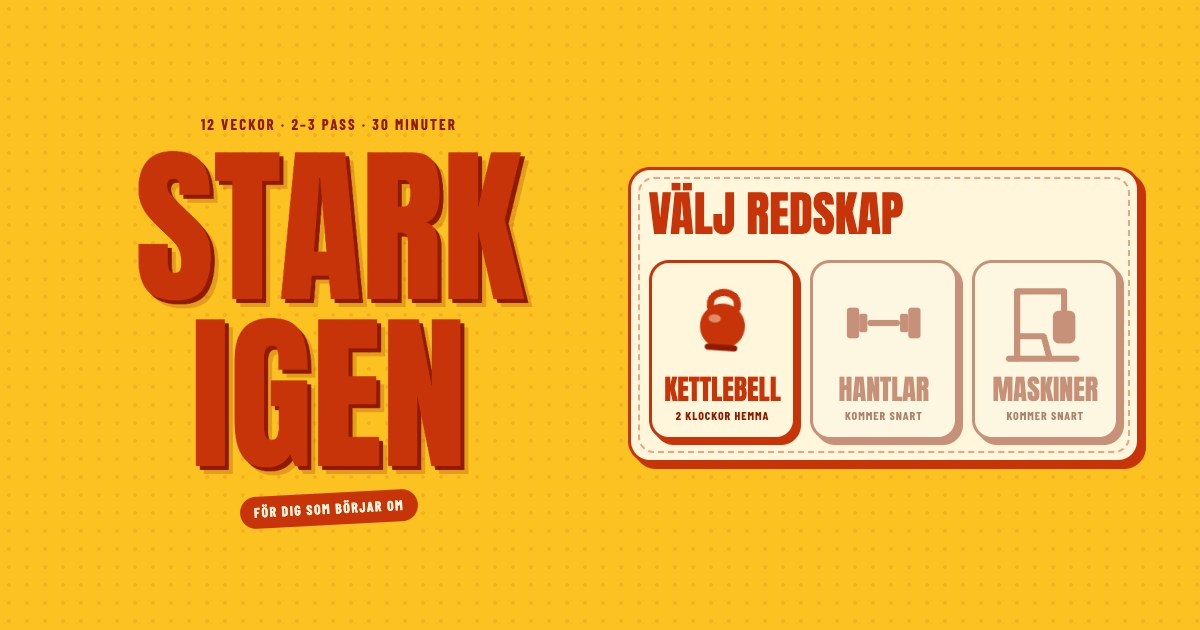
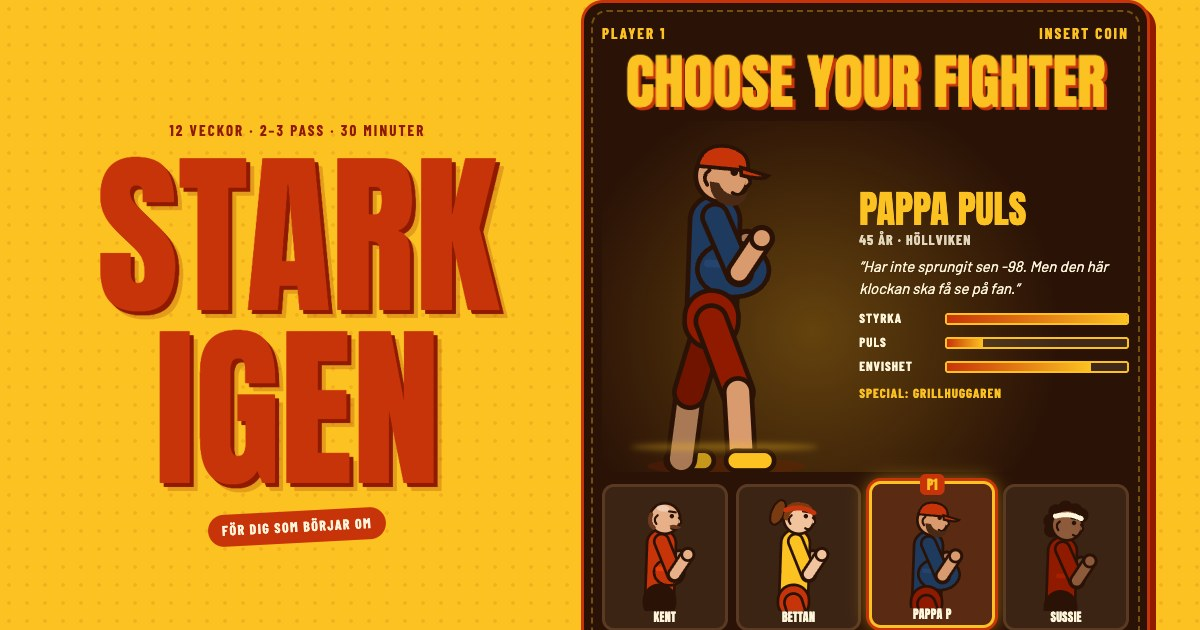
Träning: choose your fighter, tecknade gubbar, gym-läge (wake lock, dock-knapp, PWA/offline)

diff --git a/traning/index.html b/traning/index.html
@@ -16,6 +16,12 @@
 <meta property="og:image:height" content="630">
 <meta name="twitter:card" content="summary_large_image">
 <meta name="theme-color" content="#C8340A">
+<link rel="manifest" href="manifest.webmanifest">
+<link rel="apple-touch-icon" href="icon-192.png">
+<meta name="apple-mobile-web-app-capable" content="yes">
+<meta name="mobile-web-app-capable" content="yes">
+<meta name="apple-mobile-web-app-status-bar-style" content="black-translucent">
+<meta name="apple-mobile-web-app-title" content="Stark igen">
 <link rel="preconnect" href="https://fonts.googleapis.com">
 <link rel="preconnect" href="https://fonts.gstatic.com" crossorigin>
 <link rel="stylesheet" href="https://fonts.googleapis.com/css2?family=Anton&family=Barlow+Condensed:wght@600;700&family=Barlow:wght@400;500;600&display=swap">
@@ -154,6 +160,61 @@ details[open] summary::before{content:"– ";}
 @keyframes fall{to{transform:translateY(110vh) rotate(720deg)}}
 .skip{background:none;border:0;font-family:var(--label);font-weight:700;text-transform:uppercase;letter-spacing:.08em;color:var(--chili);text-decoration:underline;cursor:pointer;font-size:15px;margin-top:14px}
 @media (max-width:560px){.gear{gap:9px}.gear svg{height:70px}.bc-bar .hide-m{display:none}}
+
+button,.btn{touch-action:manipulation;user-select:none;-webkit-user-select:none}
+/* choose your fighter */
+.fsel{background:#2A1206;border-color:var(--chili);color:var(--cream);box-shadow:6px 6px 0 var(--ox)}
+.fsel::before{border-color:rgba(252,194,34,.35)}
+.fsel .eyebrow{color:var(--buttercup);display:flex;justify-content:space-between}
+.fsel .eyebrow .blink{animation:blink 1s steps(2) infinite}
+@keyframes blink{50%{opacity:0}}
+.cyf{color:var(--buttercup);text-shadow:3px 3px 0 var(--chili);font-size:clamp(34px,9vw,58px);text-align:center;margin:2px 0 10px;animation:cyf 2.4s ease-in-out infinite}
+@keyframes cyf{0%,100%{transform:scale(1)}50%{transform:scale(1.04)}}
+.fstage{display:grid;grid-template-columns:1fr 1.1fr;gap:12px;align-items:center;background:radial-gradient(circle at 40% 60%,rgba(252,194,34,.28),transparent 65%);border-radius:16px}
+#fbig .fig{max-height:none;height:auto;width:100%}
+#fbig{position:relative}
+#fbig::after{content:"";position:absolute;left:12%;right:12%;bottom:6%;height:8px;border-radius:50%;background:rgba(252,194,34,.35);filter:blur(3px)}
+.finfo h3{color:var(--buttercup);font-size:clamp(26px,6.5vw,38px);margin:0}
+.finfo .lbl{color:var(--cream);opacity:.85;margin:2px 0 6px}
+.finfo .motto{font-size:15px;font-style:italic;margin:0 0 10px;color:var(--cream)}
+.stat{display:grid;grid-template-columns:78px 1fr;gap:8px;align-items:center;margin:5px 0;font-family:var(--label);font-weight:700;letter-spacing:.08em;font-size:13px;text-transform:uppercase}
+.stat .bar{height:12px;border:2px solid var(--buttercup);border-radius:3px;overflow:hidden;background:rgba(255,246,220,.1)}
+.stat .bar i{display:block;height:100%;background:linear-gradient(90deg,var(--chili),var(--buttercup));width:0;transition:width .6s var(--pop)}
+.fmove{font-family:var(--label);font-weight:700;text-transform:uppercase;letter-spacing:.08em;font-size:13px;color:var(--buttercup);margin-top:8px}
+.fgrid{display:grid;grid-template-columns:repeat(4,1fr);gap:8px;margin-top:12px}
+.fgrid button{appearance:none;background:#3b2414;border:3px solid #5a3a22;border-radius:12px;padding:2px 2px 4px;cursor:pointer;position:relative;transition:transform .15s var(--pop),border-color .2s}
+.fgrid button .fig{max-height:none;width:100%;height:auto;display:block}
+.fgrid button span{display:block;font-family:var(--display);color:var(--cream);font-size:12px;line-height:1.05;text-transform:uppercase;letter-spacing:.02em}
+.fgrid button.on{border-color:var(--buttercup);background:#5a2a12;transform:translateY(-3px);box-shadow:0 0 0 3px var(--chili),0 0 18px rgba(252,194,34,.6)}
+.fgrid button.on::after{content:"P1";position:absolute;top:-10px;left:50%;transform:translateX(-50%);background:var(--chili);color:var(--buttercup);font-family:var(--display);font-size:13px;padding:1px 7px;border-radius:6px;animation:blink 1s steps(2) infinite}
+.fgrid button:active{transform:scale(.94)}
+.flash{position:fixed;inset:0;background:#fff;pointer-events:none;z-index:90;opacity:0}
+.flash.go{animation:flash .35s ease-out}
+@keyframes flash{0%{opacity:.7}100%{opacity:0}}
+.ko{position:absolute;top:6px;left:0;right:0;text-align:center;font-family:var(--display);font-size:30px;color:var(--buttercup);text-shadow:3px 3px 0 var(--chili);opacity:0;pointer-events:none;text-transform:uppercase}
+.ko.go{animation:ko .9s var(--pop)}
+@keyframes ko{0%{opacity:0;transform:scale(2.5)}30%{opacity:1;transform:scale(1)}80%{opacity:1}100%{opacity:0;transform:translateY(-10px)}}
+/* gym/mobil */
+.dock{position:fixed;left:0;right:0;bottom:0;z-index:40;padding:14px 16px calc(14px + env(safe-area-inset-bottom));background:linear-gradient(rgba(252,194,34,0),var(--buttercup) 32%)}
+.dock .btn{display:block;width:100%;max-width:728px;margin:0 auto;font-size:34px;padding:20px}
+#ss-body{padding-bottom:120px}
+.sshead{display:flex;justify-content:space-between;align-items:center;gap:8px}
+.sshead button{background:none;border:0;font-family:var(--label);font-weight:700;text-transform:uppercase;letter-spacing:.08em;color:var(--chili);font-size:16px;cursor:pointer;padding:8px 2px;min-height:44px}
+.wake{font-family:var(--label);font-weight:700;text-transform:uppercase;letter-spacing:.08em;font-size:12px;opacity:.75;text-align:center;margin:-6px 0 8px}
+.tipsd summary{margin-top:10px}
+.install{display:none}
+.install.on{display:block}
+.duo{display:grid;grid-template-columns:1fr 150px;gap:10px;align-items:center}
+@media (max-width:560px){
+  main{padding:56px 12px 40px}
+  .fstage{grid-template-columns:1fr 1.15fr}
+  .stat{grid-template-columns:62px 1fr;font-size:11px}
+  .finfo .motto{font-size:13px}
+  .exname{margin-top:12px}
+  .fig{max-height:36vh}
+  .card{padding:16px 14px}
+}
+@media (display-mode:standalone){.bc-bar{padding-top:calc(8px + env(safe-area-inset-top))}main{padding-top:calc(62px + env(safe-area-inset-top))}}
 @media (prefers-reduced-motion:reduce){*{animation:none!important;transition:none!important}}
 </style>
 </head>
@@ -167,6 +228,17 @@ details[open] summary::before{content:"– ";}
     <p class="eyebrow">12 veckor · 2–3 pass · 30 minuter</p>
     <h1>STARK<br>IGEN</h1>
     <span class="badge">För dig som börjar om</span>
+  </div>
+  <div class="card fsel">
+    <p class="eyebrow"><span>Player 1</span><span class="blink">Insert coin</span></p>
+    <h2 class="cyf">Choose your fighter</h2>
+    <div class="fstage"><div id="fbig"><div class="ko" id="fko">Ready!</div></div>
+      <div class="finfo"><h3 id="fname"></h3><p class="lbl" id="fmeta"></p><p class="motto" id="fmotto"></p>
+        <div class="stat"><span>Styrka</span><span class="bar"><i id="fs0"></i></span></div>
+        <div class="stat"><span>Puls</span><span class="bar"><i id="fs1"></i></span></div>
+        <div class="stat"><span>Envishet</span><span class="bar"><i id="fs2"></i></span></div>
+        <div class="fmove" id="fmove"></div></div></div>
+    <div class="fgrid" id="fgrid"></div>
   </div>
   <div class="card">
     <h2>Välj redskap</h2>
@@ -235,12 +307,16 @@ details[open] summary::before{content:"– ";}
     </ul>
     <div class="row" style="margin-top:6px"><button class="btn ghost" id="edit-prof">Ändra vikter / pass</button></div>
   </div>
+  <div class="card install" id="install"><h3>Ta med till gymmet</h3>
+    <p class="note" id="inst-txt" style="margin:0 0 10px">Lägg sidan på hemskärmen så öppnas den som en app – och funkar även utan täckning.</p>
+    <button class="btn yellow" id="inst-btn" style="display:none">Installera</button></div>
 </section>
 
 <!-- ============ PASS ============ -->
 <section class="screen" id="s-sess">
-  <div class="row" style="justify-content:space-between"><span class="lbl" id="ss-title">Pass A · Vecka 1</span><button class="skip" style="margin:0" id="ss-quit">Avbryt</button></div>
+  <div class="sshead"><button id="ss-backstep">‹ Bakåt</button><span class="lbl" id="ss-title" style="text-align:center">Pass A</span><button id="ss-quit">Avbryt</button></div>
   <div class="prog"><i id="ss-prog"></i></div>
+  <div class="wake" id="wake"></div>
   <div id="ss-body"></div>
 </section>
 
@@ -248,7 +324,7 @@ details[open] summary::before{content:"– ";}
 <section class="screen" id="s-done">
   <div class="done-hero">
     <p class="eyebrow" id="d-eyebrow">Pass klart</p>
-    <div class="bigstamp" id="d-stamp">Klart!</div>
+    <div class="duo"><div id="d-fig"></div><div class="bigstamp" id="d-stamp" style="width:150px;height:150px;font-size:28px">Klart!</div></div>
     <h2 id="d-head">Snyggt jobbat</h2>
     <p class="note" id="d-msg"></p>
   </div>
@@ -276,6 +352,7 @@ details[open] summary::before{content:"– ";}
 </div></div>
 <div class="toast" id="toast"></div>
 <div class="conf" id="conf"></div>
+<div class="flash" id="flash"></div>
 
 <svg width="0" height="0" style="position:absolute">
   <defs>
@@ -373,52 +450,109 @@ function exPlan(id, sets, reps, mode) {
 
 // ---------------- figur-renderare ----------------
 const NS = 'http://www.w3.org/2000/svg';
-function figure(ex) {
-  const svg = document.createElementNS(NS, 'svg'); svg.setAttribute('viewBox', '0 0 240 216'); svg.classList.add('fig');
-  const mk = (tag, at) => { const n = document.createElementNS(NS, tag); for (const k in at) n.setAttribute(k, at[k]); svg.appendChild(n); return n; };
-  mk('rect', {x:0, y:202, width:240, height:14, fill:'#FCC222'}); mk('line', {x1:0, y1:202, x2:240, y2:202, stroke:'#C8340A', 'stroke-width':3});
-  if (ex.prop === 'mat') mk('rect', {x:22, y:198, width:186, height:5, rx:2.5, fill:'#8F1A00', opacity:.35});
-  if (ex.prop === 'boxlow') { mk('rect', {x:46, y:160, width:44, height:42, rx:4, fill:'#FCC222', stroke:'#C8340A', 'stroke-width':3}); }
-  if (ex.prop === 'bench') { mk('rect', {x:146, y:140, width:74, height:9, rx:3, fill:'#C8340A'}); mk('line', {x1:156, y1:149, x2:156, y2:202, stroke:'#C8340A', 'stroke-width':5}); mk('line', {x1:210, y1:149, x2:210, y2:202, stroke:'#C8340A', 'stroke-width':5}); }
-  const back = {stroke:'#8F1A00', 'stroke-width':10, 'stroke-linecap':'round', 'stroke-linejoin':'round', fill:'none', opacity:.45};
-  const front = {stroke:'#C8340A', 'stroke-width':12, 'stroke-linecap':'round', 'stroke-linejoin':'round', fill:'none'};
-  const shadow = mk('ellipse', {cx:110, cy:203, rx:40, ry:4, fill:'#8F1A00', opacity:.18});
-  const leg2 = mk('polyline', back), arm2 = mk('polyline', back);
-  const kbs = [];
-  const kbg = (op) => { const g = document.createElementNS(NS, 'g'); g.innerHTML = `<g transform="translate(-12,-15) scale(.43)" opacity="${op}"><use href="#kb" width="56" height="70"/></g>`; svg.appendChild(g); return g; };
-  if (ex.kb2) kbs.push(kbg(.55));
-  const torso = mk('polyline', {...front, 'stroke-width':16}), leg = mk('polyline', front), arm = mk('polyline', front);
-  const head = mk('circle', {r:13, fill:'#C8340A'});
-  if (ex.bell) kbs.unshift(kbg(1));
+// ---------------- fighters ----------------
+const FIGHTERS = [
+  {id:'kent', namn:'Kettlebell-Kent', kort:'Kent', alder:44, ort:'Torekov', motto:'Ryggen är rak. Det är mer än man kan säga om grannen.', skin:'#E8B088', shirt:'#C8340A', pants:'#2A1206', shorts:true, shoe:'#FFF6DC', hair:'bald', hc:'#6B3A1E', belly:6, st:[4,2,5], move:'Rak rygg-stöten'},
+  {id:'bettan', namn:'Bettan Bell', kort:'Bettan', alder:42, ort:'Båstad', motto:'Jag svettas inte. Jag glittrar. Mycket.', skin:'#F2C49E', shirt:'#FCC222', pants:'#C8340A', shoe:'#2A1206', hair:'tofs', hc:'#7A3A12', band:'#C8340A', belly:0, st:[3,5,4], move:'Tofs-snurren'},
+  {id:'pappa', namn:'Pappa Puls', kort:'Pappa P', alder:45, ort:'Höllviken', motto:'Har inte sprungit sen -98. Men den här klockan ska få se på fan.', skin:'#D99B6E', shirt:'#1F3A5F', pants:'#8F1A00', shorts:true, shoe:'#FCC222', hair:'keps', hc:'#4A2A14', cap:'#C8340A', belly:11, st:[5,1,4], move:'Grillhuggaren'},
+  {id:'sussie', namn:'Svettis-Sussie', kort:'Sussie', alder:41, ort:'Malmö', motto:'Uppvärmning är för folk som tänker sluta.', skin:'#8D5A3B', shirt:'#8F1A00', pants:'#2A1206', shoe:'#FFF6DC', hair:'lockar', hc:'#2A1206', band:'#FFF6DC', belly:0, st:[4,4,5], move:'Svettstormen'},
+];
+const fighterById = id => FIGHTERS.find(f => f.id === id) || FIGHTERS[0];
+const ANIM = {
+  guard:{poses:[P(ST,{hip:[110,122], kn:[122,161], an:[126,199], kn2:[100,161], an2:[94,199], el:[124,96], ha:[136,78], el2:[116,96], ha2:[128,80], head:[115,45], kbo:null}),
+                P(ST,{hip:[110,128], sh:[112,73], head:[116,51], kn:[125,165], an:[126,199], kn2:[98,165], an2:[94,199], el:[125,102], ha:[137,84], el2:[117,102], ha2:[129,86], kbo:null})], dur:420},
+  flex:{poses:[P(ST,{el:[136,64], ha:[134,42], el2:[90,64], ha2:[92,42], kn:[120,161], an:[124,199], kn2:[100,161], an2:[96,199], kbo:null}), P(ST,{hip:[110,124], sh:[112,70], head:[114,48], el:[138,66], ha:[130,46], el2:[88,66], ha2:[96,46], kn:[122,163], an:[124,199], kn2:[98,163], an2:[96,199], kbo:null})], dur:380},
+};
+const shade = (hex, k) => { const n = parseInt(hex.slice(1), 16); const c = [n >> 16, n >> 8 & 255, n & 255].map(v => Math.round(v * k)); return '#' + c.map(v => v.toString(16).padStart(2, '0')).join(''); };
+function headSVG(f) {
+  const s = f.skin, o = '#2A1206';
+  let back = '', front = '';
+  if (f.hair === 'bald') { front = `<ellipse cx="-3" cy="-9" rx="6" ry="3" fill="#fff" opacity=".35"/><path d="M5 6 Q10 3 16 6 Q12 9 9 8 Q7 9 5 6Z" fill="${f.hc}"/><path d="M-13 -2 Q-15 6 -9 10" stroke="${f.hc}" stroke-width="4" fill="none" stroke-linecap="round"/>`; }
+  if (f.hair === 'tofs') { back = `<g class="tofs"><ellipse cx="-18" cy="-2" rx="6" ry="12" fill="${f.hc}" stroke="${o}" stroke-width="2" transform="rotate(25 -14 -8)"/></g>`;
+    front = `<path d="M-14 2 Q-16 -16 2 -15 Q12 -14 13 -6 Q2 -10 -6 -6 Q-10 -2 -10 4Z" fill="${f.hc}"/><path d="M-13 -6 Q0 -13 13 -7" stroke="${f.band}" stroke-width="4.5" fill="none" stroke-linecap="round"/>`; }
+  if (f.hair === 'keps') { front = `<path d="M-14 -3 Q-13 -16 1 -16 Q13 -15 13 -5Z" fill="${f.cap}" stroke="${o}" stroke-width="2"/><path d="M9 -6 L24 -4 Q22 -1 10 -2Z" fill="${f.cap}" stroke="${o}" stroke-width="2"/>
+      <path d="M-6 4 Q-4 15 7 15 Q14 14 15 6 Q11 10 7 9 Q2 9 -1 4Z" fill="${f.hc}"/>`; }
+  if (f.hair === 'lockar') { back = [[-12,-10],[-4,-15],[5,-14],[-15,-1],[-13,7],[11,-11]].map(([x,y]) => `<circle cx="${x}" cy="${y}" r="7" fill="${f.hc}"/>`).join('');
+    front = `<path d="M-12 -6 Q0 -12 12 -8" stroke="${f.band}" stroke-width="4.5" fill="none" stroke-linecap="round"/>`; }
+  return `${back}<circle r="14" fill="${s}" stroke="${o}" stroke-width="2.5"/>
+    <path d="M12 -3 Q18 1 13 4" fill="${s}" stroke="${o}" stroke-width="2"/>
+    <circle cx="6" cy="-3" r="2" fill="${o}"/><path d="M3 -7 L9 -7" stroke="${o}" stroke-width="2" stroke-linecap="round"/>
+    <path d="M7 8 Q10 9.5 12 7.5" stroke="${o}" stroke-width="2" fill="none" stroke-linecap="round"/>
+    <path d="M-7 -2 Q-11 2 -7 6" fill="none" stroke="${o}" stroke-width="2" stroke-linecap="round"/>${front}`;
+}
+// Ritar en fighter som gör en övning. ex: {poses, dur, cycle, walk, bell, kb2, prop}. Returnerar svg; svg.setAnim(ex) byter rörelse.
+function figure(ex, f = fighterById(localStorage.getItem('bc_traning_fighter')), opts = {}) {
+  const svg = document.createElementNS(NS, 'svg'); svg.setAttribute('viewBox', opts.vb || '0 0 240 216'); svg.classList.add('fig');
+  const mk = (tag, at, par = svg) => { const n = document.createElementNS(NS, tag); for (const k in at) n.setAttribute(k, at[k]); par.appendChild(n); return n; };
+  const OX = '#2A1206';
+  const props = mk('g', {});
+  if (!opts.noGround) { mk('rect', {x:0, y:202, width:240, height:14, fill:'#FCC222'}, props); mk('line', {x1:0, y1:202, x2:240, y2:202, stroke:'#C8340A', 'stroke-width':3}, props); }
+  const shadow = mk('ellipse', {cx:110, cy:203, rx:42, ry:4.5, fill:'#8F1A00', opacity:.2});
+  const seg = (col, w) => { const g = mk('g', {}); const a = mk('polyline', {stroke:OX, 'stroke-width':w + 5, 'stroke-linecap':'round', 'stroke-linejoin':'round', fill:'none'}, g);
+    const b = mk('polyline', {stroke:col, 'stroke-width':w, 'stroke-linecap':'round', 'stroke-linejoin':'round', fill:'none'}, g); return {set(p) { a.setAttribute('points', p); b.setAttribute('points', p); }, a, b}; };
+  const dk = .78;
+  const kbg = (op) => { const g = mk('g', {}); g.innerHTML = `<g transform="translate(-12,-15) scale(.43)" opacity="${op}"><use href="#kb" width="56" height="70"/></g>`; return g; };
+  // bortre sida
+  const shoe2 = seg(shade(f.shoe, dk), 8), shin2 = seg(shade(f.shorts ? f.skin : f.pants, dk), 12), thigh2 = seg(shade(f.pants, dk), 14);
+  const kbBack = kbg(1);
+  const fore2 = seg(shade(f.skin, dk), 9), up2 = seg(shade(f.shirt, dk), 11);
+  const hand2 = mk('circle', {r:5.5, fill:shade(f.skin, dk), stroke:OX, 'stroke-width':2.5});
+  // kropp
+  const torso = seg(f.shirt, 24);
+  const belly = mk('ellipse', {rx:0, ry:0, fill:f.shirt, stroke:OX, 'stroke-width':2.5});
+  const stripe = mk('polyline', {stroke:shade(f.shirt, 1.25), 'stroke-width':4, fill:'none', 'stroke-linecap':'round', opacity:.7});
+  const shorts = seg(f.pants, 26);
+  const thigh = seg(f.pants, 14), shin = seg(f.shorts ? f.skin : f.pants, 12), shoe = seg(f.shoe, 8);
+  const headG = mk('g', {}); headG.innerHTML = headSVG(f);
+  const tofs = headG.querySelector('.tofs');
+  const kbFront = kbg(1);
+  const up = seg(f.shirt, 11), fore = seg(f.skin, 9);
+  const hand = mk('circle', {r:5.5, fill:f.skin, stroke:OX, 'stroke-width':2.5});
   const lerp = (a, b, t) => a + (b - a) * t;
+  const pts = (...p) => p.map(q => q[0].toFixed(1) + ',' + q[1].toFixed(1)).join(' ');
+  let cur, t0;
+  svg.setAnim = (e) => {
+    cur = e; t0 = performance.now(); props.querySelectorAll('.prop').forEach(n => n.remove());
+    if (e.prop === 'mat') mk('rect', {class:'prop', x:22, y:198, width:186, height:5, rx:2.5, fill:'#8F1A00', opacity:.35}, props);
+    if (e.prop === 'boxlow') mk('rect', {class:'prop', x:46, y:160, width:44, height:42, rx:4, fill:'#FCC222', stroke:'#C8340A', 'stroke-width':3}, props);
+    if (e.prop === 'bench') { mk('rect', {class:'prop', x:146, y:140, width:74, height:9, rx:3, fill:'#C8340A'}, props); mk('line', {class:'prop', x1:156, y1:149, x2:156, y2:202, stroke:'#C8340A', 'stroke-width':5}, props); mk('line', {class:'prop', x1:210, y1:149, x2:210, y2:202, stroke:'#C8340A', 'stroke-width':5}, props); }
+    kbFront.style.display = e.bell ? '' : 'none'; kbBack.style.display = e.kb2 ? '' : 'none';
+  };
+  svg.setAnim(ex);
   const L = (A, B, k, t) => { const a = A[k] ?? A[k.replace('2','')], b = B[k] ?? B[k.replace('2','')]; return [lerp(a[0], b[0], t), lerp(a[1], b[1], t)]; };
-  const pts = (...p) => p.map(q => q.join(',')).join(' ');
-  let t0 = performance.now(), alive = true;
   function frame(now) {
-    if (!svg.isConnected && now - t0 > 500) return;   // figuren har bytts ut: sluta animera
-    const n = ex.poses.length, cyc = ex.cycle;
-    let u = ((now - t0) / ex.dur);
+    if (!svg.isConnected && now - t0 > 800) return;
+    const e = cur, n = e.poses.length, u = (now - t0) / e.dur;
     let i, j, t;
-    if (cyc) { const k = u % n; i = Math.floor(k); j = (i + 1) % n; t = k - i; }
-    else { const k = u % 2; const fw = k < 1; t = fw ? k : 2 - k; i = 0; j = 1; }
+    if (e.cycle) { const k = u % n; i = Math.floor(k); j = (i + 1) % n; t = k - i; }
+    else { const k = u % 2; t = k < 1 ? k : 2 - k; i = 0; j = 1; }
     t = .5 - Math.cos(Math.PI * t) / 2;
-    const A = ex.poses[i], B = ex.poses[j];
-    const g = k => L(A, B, k, t);
-    const hip = g('hip'), sh = g('sh'), kn = g('kn'), an = g('an'), kn2 = g('kn2'), an2 = g('an2'), el = g('el'), ha = g('ha'), el2 = g('el2'), ha2 = g('ha2'), hd = g('head');
-    const bob = ex.walk ? Math.abs(Math.sin(Math.PI * u)) * -2 : 0;
-    const B2 = p => [p[0], p[1] + bob];
-    const toe = a => [a[0] + 13, a[1]];
-    leg2.setAttribute('points', pts(B2(hip), kn2, an2, toe(an2)));
-    arm2.setAttribute('points', pts(B2(sh), B2(el2), B2(ha2)));
-    torso.setAttribute('points', pts(B2(hip), B2(sh)));
-    leg.setAttribute('points', pts(B2(hip), kn, an, toe(an)));
-    arm.setAttribute('points', pts(B2(sh), B2(el), B2(ha)));
-    head.setAttribute('cx', hd[0]); head.setAttribute('cy', hd[1] + bob);
+    const A = e.poses[i], B = e.poses[j], g = k => L(A, B, k, t);
+    const bob = e.walk ? Math.abs(Math.sin(Math.PI * u)) * -2.5 : 0, Bb = p => [p[0], p[1] + bob];
+    const hip = Bb(g('hip')), sh = Bb(g('sh')), kn = g('kn'), an = g('an'), kn2 = g('kn2'), an2 = g('an2'), el = Bb(g('el')), ha = Bb(g('ha')), el2 = Bb(g('el2')), ha2 = Bb(g('ha2')), hd = Bb(g('head'));
+    const toe = a => [a[0] + 12, a[1] + 1], heel = a => [a[0] - 3, a[1] + 1];
+    thigh2.set(pts(hip, kn2)); shin2.set(pts(kn2, an2)); shoe2.set(pts(heel(an2), toe(an2)));
+    up2.set(pts(sh, el2)); fore2.set(pts(el2, ha2)); hand2.setAttribute('cx', ha2[0]); hand2.setAttribute('cy', ha2[1]);
+    // bål: lite kortare upptill så halsen syns
+    const v = [sh[0] - hip[0], sh[1] - hip[1]], len = Math.hypot(...v), u1 = [v[0] / len, v[1] / len], nrm = [-u1[1], u1[0]];
+    const shT = [hip[0] + u1[0] * (len - 2), hip[1] + u1[1] * (len - 2)];
+    torso.set(pts(hip, shT));
+    const bm = [hip[0] + v[0] * .5 + nrm[0] * (5 + f.belly * .5), hip[1] + v[1] * .5 + nrm[1] * (5 + f.belly * .5)];
+    if (f.belly) { belly.setAttribute('cx', bm[0]); belly.setAttribute('cy', bm[1]); belly.setAttribute('rx', 8 + f.belly); belly.setAttribute('ry', 9 + f.belly * .5);
+      belly.setAttribute('transform', `rotate(${Math.atan2(u1[1], u1[0]) * 180 / Math.PI + 90} ${bm[0]} ${bm[1]})`); }
+    stripe.setAttribute('points', pts([hip[0] + v[0] * .55 + nrm[0] * -3, hip[1] + v[1] * .55 + nrm[1] * -3], [hip[0] + v[0] * .55 + nrm[0] * 9, hip[1] + v[1] * .55 + nrm[1] * 9]));
+    shorts.set(pts([hip[0] + u1[0] * 2, hip[1] + u1[1] * 2], hip));
+    thigh.set(pts(hip, kn)); shin.set(pts(kn, an)); shoe.set(pts(heel(an), toe(an)));
+    const ang = Math.atan2(hd[1] - sh[1], hd[0] - sh[0]) * 180 / Math.PI + 90;
+    headG.setAttribute('transform', `translate(${hd[0]},${hd[1]}) rotate(${ang})`);
+    if (tofs) tofs.setAttribute('transform', `rotate(${Math.sin(now / 180) * 10} -12 -6)`);
+    up.set(pts(sh, el)); fore.set(pts(el, ha)); hand.setAttribute('cx', ha[0]); hand.setAttribute('cy', ha[1]);
     shadow.setAttribute('cx', (hip[0] + an[0]) / 2);
-    const oa = A.kbo === undefined ? [0,14] : A.kbo, ob = B.kbo === undefined ? [0,14] : B.kbo;
+    const oa = A.kbo === undefined ? [0, 14] : A.kbo, ob = B.kbo === undefined ? [0, 14] : B.kbo;
     if (oa && ob) { const o = [lerp(oa[0], ob[0], t), lerp(oa[1], ob[1], t)];
-      kbs.forEach((k, q) => { const h = q === 0 ? ha : ha2; k.setAttribute('transform', `translate(${h[0] + o[0] + (q ? -6 : 0)},${h[1] + o[1] + bob})`); k.style.display = ''; }); }
-    else kbs.forEach(k => k.style.display = 'none');
+      kbFront.style.display = e.bell ? '' : 'none'; kbBack.style.display = e.kb2 ? '' : 'none';
+      kbFront.setAttribute('transform', `translate(${ha[0] + o[0]},${ha[1] + o[1]})`); kbBack.setAttribute('transform', `translate(${ha2[0] + o[0] - 6},${ha2[1] + o[1]})`); }
+    else { kbFront.style.display = 'none'; kbBack.style.display = 'none'; }
     requestAnimationFrame(frame);
   }
   requestAnimationFrame(frame);
@@ -484,10 +618,16 @@ function startSession(k) {
   plan.forEach((x, xi) => { for (let s = 1; s <= x.sets; s++) steps.push({type:'set', x, xi, s}); });
   steps.push({type:'rpe'});
   SS = {k, w, plan, steps, i:0, namn:p.namn, t0:Date.now()};
-  $('#ss-title').textContent = `Pass ${k} · ${p.namn} · Vecka ${w}`;
-  show('s-sess'); renderStep();
+  $('#ss-title').textContent = `Pass ${k} · Vecka ${w}`;
+  show('s-sess'); renderStep(); wakeOn();
 }
-$('#ss-quit').onclick = () => { if (confirm('Avbryta passet? Det sparas inte.')) { stopRest(); renderProg(); show('s-prog'); } };
+let WL = null;
+async function wakeOn() { try { WL = await navigator.wakeLock.request('screen'); $('#wake').textContent = '🔆 Skärmen hålls tänd under passet'; WL.addEventListener('release', () => { if (SS) $('#wake').textContent = ''; }); }
+  catch (_) { $('#wake').textContent = ''; } }
+function wakeOff() { try { WL && WL.release(); } catch (_) {} WL = null; }
+document.addEventListener('visibilitychange', () => { if (document.visibilityState === 'visible' && SS && $('#s-sess').classList.contains('on')) wakeOn(); });
+$('#ss-backstep').onclick = () => { if (!SS || SS.i === 0) return; stopRest(); SS.i--; renderStep(); };
+$('#ss-quit').onclick = () => { if (confirm('Avbryta passet? Det sparas inte.')) { stopRest(); wakeOff(); SS = null; renderProg(); show('s-prog'); } };
 function renderStep() {
   const st = SS.steps[SS.i], body = $('#ss-body'); body.innerHTML = '';
   $('#ss-prog').style.width = (SS.i / (SS.steps.length - 1) * 100) + '%';
@@ -496,7 +636,7 @@ function renderStep() {
     body.innerHTML = `<div class="card" style="margin-top:6px"><p class="eyebrow">Uppvärmning · 5 min</p><h2>Värm upp</h2>
       <ol class="wlist">${WARM.map(w => `<li>${w}</li>`).join('')}</ol>
       <p class="note">Lugnt tempo. Du ska bli varm, inte trött.</p></div>
-      <div style="margin-top:20px"><button class="btn big" id="nx">Jag är varm – kör!</button></div>`;
+      <div class="dock"><button class="btn big" id="nx">Jag är varm – kör!</button></div>`;
     $('#nx').onclick = next; return;
   }
   if (st.type === 'set') {
@@ -508,8 +648,8 @@ function renderStep() {
     const info = document.createElement('div');
     info.innerHTML = `<div class="exname">${e.namn}</div><div class="target">${x.target}</div>
       <div class="dots">${Array.from({length:x.sets}, (_, i) => `<i class="${i < st.s - 1 ? 'done' : ''}"></i>`).join('')}</div>
-      <ul class="tips">${e.tips.map(t => `<li>${t}</li>`).join('')}</ul>
-      <button class="btn big" id="nx">${st.s < x.sets ? 'Set klart' : 'Övning klar'}</button>`;
+      <details class="tipsd" ${st.s === 1 ? 'open' : ''}><summary>Teknik</summary><ul class="tips">${e.tips.map(t => `<li>${t}</li>`).join('')}</ul></details>
+      <div class="dock"><button class="btn big" id="nx">${st.s < x.sets ? 'Set klart ✓' : 'Övning klar ✓'}</button></div>`;
     wrap.appendChild(info); body.appendChild(wrap);
     $('#nx').onclick = () => {
       const d = body.querySelectorAll('.dots i')[st.s - 1]; if (d) d.classList.add('done');
@@ -579,6 +719,8 @@ function finish(r) {
   const total = S.log.length, left = 12 * S.ppw - total;
   $('#d-head').textContent = left <= 0 ? 'Alla 12 veckor!' : r === 'too' ? 'Bra att du sa till' : 'Snyggt jobbat';
   $('#d-msg').textContent = (msgs.join(' ') + ' ' + (left > 0 ? `${total} pass gjorda, ${left} kvar.` : 'Du har gjort hela programmet. Kör en runda till med tyngre klockor?')).trim();
+  wakeOff();
+  const df = $('#d-fig'); df.innerHTML = ''; df.appendChild(figure(ANIM.flex, undefined, {vb:'40 10 160 200', noGround:true}));
   stamps($('#d-stamps'), true); show('s-done'); confetti();
   if (msgs.length > 1) setTimeout(() => toast(msgs[1]), 900);
 }
@@ -600,7 +742,49 @@ function renderLog() {
 }
 // direktstart om man redan har ett program
 if (S) { $('#g-kb small').textContent = `Vecka ${week()} · fortsätt`; }
-window.__t = {EX, PHASES, figure, get S() { return S; }};
+
+// ---------------- choose your fighter ----------------
+let FBIG = null;
+function blip(f0 = 520, f1 = 1040, d = .12) { try { AC = AC || new (window.AudioContext || window.webkitAudioContext)(); const o = AC.createOscillator(), g = AC.createGain(); o.type = 'square';
+  o.frequency.setValueAtTime(f0, AC.currentTime); o.frequency.exponentialRampToValueAtTime(f1, AC.currentTime + d); g.gain.setValueAtTime(.06, AC.currentTime); g.gain.exponentialRampToValueAtTime(.001, AC.currentTime + d + .05);
+  o.connect(g); g.connect(AC.destination); o.start(); o.stop(AC.currentTime + d + .06); } catch (_) {} }
+function renderFighters(animate) {
+  const cur = fighterById(localStorage.getItem('bc_traning_fighter')), grid = $('#fgrid');
+  if (!grid.children.length) FIGHTERS.forEach(f => {
+    const b = document.createElement('button'); b.dataset.id = f.id; b.setAttribute('aria-label', f.namn);
+    b.appendChild(figure({...ANIM.guard, dur:ANIM.guard.dur + Math.random() * 120}, f, {vb:'62 18 106 112', noGround:true}));
+    const n = document.createElement('span'); n.textContent = f.kort; b.appendChild(n);
+    b.onclick = () => pickFighter(f.id); grid.appendChild(b);
+  });
+  grid.querySelectorAll('button').forEach(b => b.classList.toggle('on', b.dataset.id === cur.id));
+  const big = $('#fbig'); if (FBIG) FBIG.remove();
+  FBIG = figure(animate ? ANIM.flex : ANIM.guard, cur, {vb:'52 20 130 186', noGround:true}); big.appendChild(FBIG);
+  if (animate) setTimeout(() => FBIG && FBIG.setAnim(ANIM.guard), 1300);
+  $('#fname').textContent = cur.namn; $('#fmeta').textContent = `${cur.alder} år · ${cur.ort}`; $('#fmotto').textContent = '”' + cur.motto + '”';
+  $('#fmove').textContent = 'Special: ' + cur.move;
+  cur.st.forEach((v, i) => { const el = $('#fs' + i); el.style.width = '0'; requestAnimationFrame(() => requestAnimationFrame(() => el.style.width = v * 20 + '%')); });
+}
+function pickFighter(id) {
+  const same = localStorage.getItem('bc_traning_fighter') === id;
+  localStorage.setItem('bc_traning_fighter', id); blip(same ? 700 : 400, same ? 1400 : 900);
+  const fl = $('#flash'); fl.classList.remove('go'); void fl.offsetWidth; fl.classList.add('go');
+  const ko = $('#fko'); ko.textContent = ['Ready!', 'Fight!', 'Let’s go!', 'Kör!'][Math.floor(Math.random() * 4)]; ko.classList.remove('go'); void ko.offsetWidth; ko.classList.add('go');
+  renderFighters(true);
+}
+if (!localStorage.getItem('bc_traning_fighter')) localStorage.setItem('bc_traning_fighter', 'kent');
+renderFighters(false);
+
+// ---------------- installera / offline ----------------
+const standalone = matchMedia('(display-mode: standalone)').matches || navigator.standalone;
+let deferred = null;
+if (!standalone) {
+  $('#install').classList.add('on');
+  if (/iPhone|iPad|iPod/.test(navigator.userAgent)) $('#inst-txt').innerHTML = 'Lägg sidan på hemskärmen så öppnas den som en app – och funkar utan täckning: tryck på <b>Dela</b> (rutan med pilen) → <b>Lägg till på hemskärmen</b>.';
+}
+addEventListener('beforeinstallprompt', e => { e.preventDefault(); deferred = e; $('#inst-btn').style.display = ''; });
+$('#inst-btn').onclick = async () => { if (!deferred) return; deferred.prompt(); await deferred.userChoice; deferred = null; $('#inst-btn').style.display = 'none'; };
+if ('serviceWorker' in navigator && location.protocol === 'https:') navigator.serviceWorker.register('sw.js').catch(() => {});
+window.__t = {EX, PHASES, figure, FIGHTERS, ANIM, get S() { return S; }};
 </script>
 </body>
 </html>

diff --git a/traning/sw.js b/traning/sw.js
@@ -1,0 +1,15 @@
+// Stark igen: offline-cache sa sidan funkar pa gymmet utan tackning.
+const C = 'stark-igen-v2';
+const CORE = ['./', './index.html', './manifest.webmanifest', './icon-192.png', './icon-512.png'];
+self.addEventListener('install', e => { e.waitUntil(caches.open(C).then(c => c.addAll(CORE)).then(() => self.skipWaiting())); });
+self.addEventListener('activate', e => { e.waitUntil(caches.keys().then(ks => Promise.all(ks.filter(k => k !== C).map(k => caches.delete(k)))).then(() => self.clients.claim())); });
+self.addEventListener('fetch', e => {
+  const r = e.request; if (r.method !== 'GET') return;
+  const u = new URL(r.url);
+  // sidan: natet forst (nya versioner), cache som reserv. Typsnitt m.m.: cache forst.
+  if (u.origin === location.origin) {
+    e.respondWith(fetch(r).then(res => { const cp = res.clone(); caches.open(C).then(c => c.put(r, cp)); return res; }).catch(() => caches.match(r).then(m => m || caches.match('./'))));
+  } else if (/fonts\.(googleapis|gstatic)\.com$/.test(u.hostname)) {
+    e.respondWith(caches.match(r).then(m => m || fetch(r).then(res => { const cp = res.clone(); caches.open(C).then(c => c.put(r, cp)); return res; })));
+  }
+});
